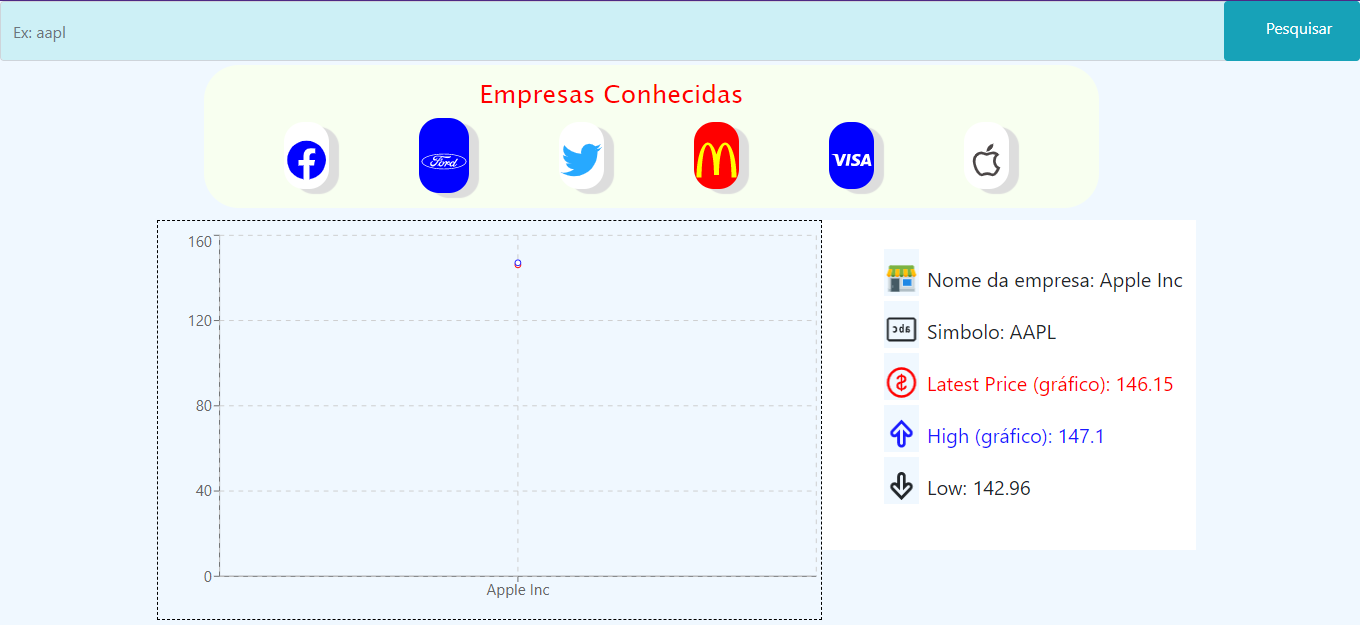
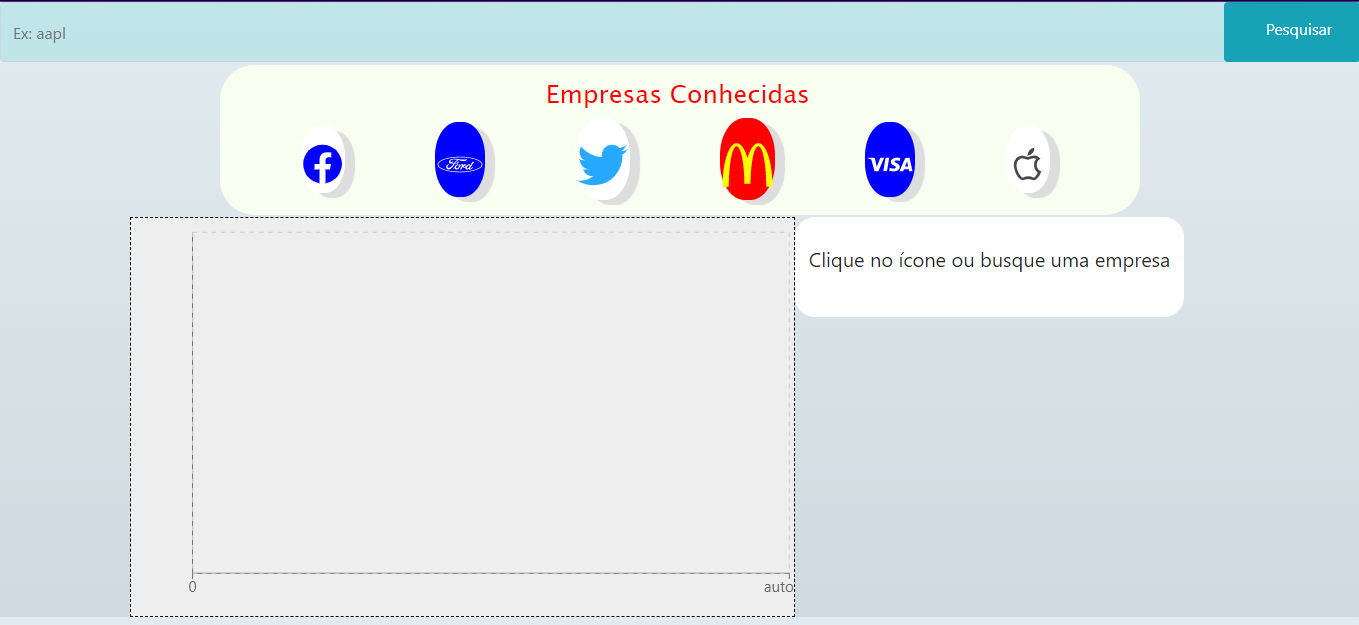
pagina funcional

diff --git a/app/src/componentes/NavbarAcoes.js b/app/src/componentes/NavbarAcoes.js
@@ -12,13 +12,13 @@ let choice = 0
 
 function NavbarAcoes({ changeCompany, changeSymbol, simbolo, informacoes}){
     const showExample = empresa => {
-        if(empresa === simbolo.simbolo || empresa === simbolo){
-            choice = 0
+        if(empresa === simbolo.simbolo || empresa === simbolo){     //if para verificar se vai concatenar ou                                                   
+            choice = 0                                              //excluir o atual array de informacao
         }else{
             choice = 1
-            clearInterval(intervalo)
-            changeSymbol(empresa)
-            changeCompany(
+            clearInterval(intervalo)                                // pararando a setInterval do dashboard
+            changeSymbol(empresa)                                   //trocando o simbolo no reducer e att pag
+            changeCompany(                                          //renderizando a nova empresa na tela
                 `https://cloud.iexapis.com/v1/stock/${empresa}/quote/?token=pk_c778b6dbd2154d6fa15043568d469931`,
                 choice
             )            
@@ -26,30 +26,31 @@ function NavbarAcoes({ changeCompany, changeSymbol, simbolo, informacoes}){
     }
 
     return(
-        <nav className='container-exemplo'>
-            <h5 className='info-exemplo'>Empresas Conhecidas</h5> 
-            <div className='div-exemplo'>
-                <p className='icone-exemplo face' onClick={()=>showExample('fb')}>
-                    <FaFacebook className='icon-ex' />
-                </p>
-                <p className='icone-exemplo ford' onClick={()=>showExample('f')}>
-                    <SiFord className='icon-ex' />
-                </p>
-                <p className='icone-exemplo twitter' onClick={()=>showExample('twtr')}>
-                    <FaTwitter className='icon-ex' />
-                </p>
-                <p className='icone-exemplo mcdonald' onClick={()=>showExample('mcd')}>
-                    <SiMcdonalds className='icon-ex' />
-                </p>
-                <p className='icone-exemplo visa' onClick={()=>showExample('v')}>
-                    <SiVisa className='icon-ex' />
-                </p>
-                <p className='icone-exemplo apple' onClick={()=>showExample('aapl')}>
-                    <AiOutlineApple className='icon-ex' />
-                </p> 
-            </div>
-            
-        </nav>
+        <div className='container-exemplo-full'>
+            <nav className='container-exemplo'>
+                <h5 className='info-h5'>Empresas Conhecidas</h5> 
+                <div className='div-exemplo'>
+                    <p className='icone-exemplo face' onClick={()=>showExample('fb')}>
+                        <FaFacebook className='icon-ex' />
+                    </p>
+                    <p className='icone-exemplo ford' onClick={()=>showExample('f')}>
+                        <SiFord className='icon-ex' />
+                    </p>
+                    <p className='icone-exemplo twitter' onClick={()=>showExample('twtr')}>
+                        <FaTwitter className='icon-ex' />
+                    </p>
+                    <p className='icone-exemplo mcdonald' onClick={()=>showExample('mcd')}>
+                        <SiMcdonalds className='icon-ex' />
+                    </p>
+                    <p className='icone-exemplo visa' onClick={()=>showExample('v')}>
+                        <SiVisa className='icon-ex' />
+                    </p>
+                    <p className='icone-exemplo apple' onClick={()=>showExample('aapl')}>
+                        <AiOutlineApple className='icon-ex' />
+                    </p> 
+                </div>        
+            </nav>
+        </div>
     )
 }
 

diff --git a/app/src/componentes/InfoDashboard.js b/app/src/componentes/InfoDashboard.js
@@ -8,35 +8,37 @@ import { TiArrowDownOutline, TiArrowUpOutline } from 'react-icons/ti'
 
 function InfoDashboard({ informacoes }){
     // imprimindo as informacoes da empresa consultada
-    console.log(informacoes[0])
+    const [data, setData] = React.useState(null)
+    if(informacoes && informacoes[0] !== data)
+        setData(informacoes[0])                     //informacoes que serao usadas na descricao
+
     return (
         <div className='info-company'>
-            {informacoes ?
+            {data ?
                 <ul className='lista-informacao'>
                     <li>
                         <p className='icone-grafico'><FcShop className='animar' /></p>
-                        Nome da empresa: {informacoes[0].companyName}
+                        Nome da empresa: <strong>{data.informacoes.companyName}</strong>
                     </li>
                     <li>
                         <p className='icone-grafico'><VscSymbolString className='animar' /></p>
-                        Simbolo: {informacoes.symbol}
+                        Simbolo: <strong>{data.informacoes.symbol}</strong>
                     </li>
                     <li className='latest-price'>
                         <p className='icone-grafico'><AiOutlineDollar className='animar' /></p>
-                        Latest Price  (gráfico): {informacoes.latestPrice}
+                        Latest Price  (gráfico): <strong>{data.informacoes.latestPrice}</strong>
                     </li>
                     <li className='high'>
                         <p className='icone-grafico'><TiArrowUpOutline className='animar' /></p>
-                        High  (gráfico): {informacoes.high}
+                        High  (gráfico): <strong>{data.informacoes.high}</strong>
                     </li>
                     <li>
                         <p className='icone-grafico'><TiArrowDownOutline className='animar' /></p>
-                        Low: {informacoes.low}
+                        Low: <strong>{data.informacoes.low}</strong>
                     </li>
                 </ul>
             :
-                < >
-                </>
+                <p> Clique no ícone ou busque uma empresa </p>
             } 
         </div> 
 

diff --git a/app/public/style.css b/app/public/style.css
@@ -1,5 +1,6 @@
 body{
-    background-color: aliceblue;
+    background-image: linear-gradient(to top, #cfd9df 0%, #e2ebf0 100%);
+    overflow: hidden;
 }
 
 .ipt-search {
@@ -8,6 +9,10 @@ body{
     height: 60px;
     background-color: #2acece2d;
     color: black;
+}
+
+.form-search {
+    margin-bottom: 3px;
 }
 
 .btn-search {
@@ -26,7 +31,7 @@ body{
 }
 
 .recharts-wrapper{
-    margin: auto auto auto 9%;
+    margin: auto auto auto 7%;
     display: flex;
     float: left;
 }
@@ -34,7 +39,7 @@ body{
 .recharts-surface {
     border: 1px dashed black;
     margin-left: 5%;
-    
+    background-color: #eee;
 }
 
 .info-company {
@@ -42,6 +47,7 @@ body{
     float: left;
     padding: 2% 1%;
     font-size: 20px;
+    border-radius: 20px;
 }
 
 .lista-informacao {
@@ -61,16 +67,20 @@ body{
     margin: auto 8px;
     background-color: aliceblue;
     font-size: 35px;
-    transform: rotateX(80deg);
+}
+
+.container-exemplo-full {
+    display: flex;
+    justify-content: center;
 }
 
 .container-exemplo {
     background-color: #f8fff0;
     padding: 15px 80px 15px 0;
-    margin-left: 15%;
     display: inline-block;
-    transform: translateY(-12px);
     border-radius: 35px;
+    justify-content: center;
+    margin-bottom: 2px;
 }
 
 .div-exemplo {
@@ -78,12 +88,13 @@ body{
     justify-content: center;
 }
 
-.info-exemplo {
+.info-h5 {
     display: block;
     text-align: center;
     font-family:'Lucida Sans', 'Lucida Sans Regular', 'Lucida Grande', 'Lucida Sans Unicode', Geneva, Verdana, sans-serif;
     color: rgb(255, 0, 0);
     font-size: 25px;
+    padding-left: 9%;
 }
 
 .icone-exemplo {
@@ -91,7 +102,7 @@ body{
     font-size: 45px;
     display: inline;
     margin-right: 10px;
-    border-radius: 20px;
+    border-radius: 45%;
     box-shadow: #ddd 10px 5px 1px;
 }
 
@@ -109,16 +120,19 @@ body{
 .twitter {
     color: rgba(0, 153, 255, 0.849);;
     background-color: #fff;
+    font-size: 55px;
 }
 
 .mcdonald {
     color: yellow;
     background-color: #f00;
+    font-size: 55px;
 }
 
 .visa {
     color: #fff;
     background-color: blue;
+    font-size: 50px;
 }
 
 .apple {

diff --git a/app/src/componentes/HeaderSearch.js b/app/src/componentes/HeaderSearch.js
@@ -10,7 +10,7 @@ let choice = 0
 const HeaderSearch = ({simbolo, changeCompany, changeSymbol}) => {
     
     //capturando o simbolo da empresa com um hook
-    const [ symbol, setSymbol ] = React.useState({symbol: ''}) // criando o hook
+    const [ symbol, setSymbol ] = React.useState({symbol: ''})      // criando o hook
 
     function GetInputValue(e){
         setSymbol({symbol: e.target.value})                         // capturando a informacao
@@ -19,17 +19,16 @@ const HeaderSearch = ({simbolo, changeCompany, changeSymbol}) => {
     function SetCompanyInformation(e){
         e.preventDefault()                                          // parando o refresh da pagina e chamando a funcao
         if(symbol.symbol === simbolo){                              // que troca as informações da empresa
-            choice = 0
-        }else{
+            choice = 0                                              //if para verificar se vai concatenar ou
+        }else{                                                      //excluir o atual array de informacao
             choice = 1
-            clearInterval(intervalo)
-            changeSymbol(symbol.symbol)                              
-            changeCompany(
+            clearInterval(intervalo)                                // pararando a setInterval do dashboard
+            changeSymbol(symbol.symbol)                             //trocando o simbolo no reducer e att pag                              
+            changeCompany(                                          //renderizando a nova empresa na tela
                 `https://cloud.iexapis.com/v1/stock/${symbol.symbol}/quote/?token=pk_c778b6dbd2154d6fa15043568d469931`,
                 choice
             )
         }
-        
     }
 
     return (

diff --git a/app/src/componentes/DashBoardAcoes.js b/app/src/componentes/DashBoardAcoes.js
@@ -6,14 +6,16 @@ import { changeCompany } from './../store/actions/TrocaEmpresa'
 
 import InfoDashboard from './InfoDashboard'
 
-export let intervalo = null
+export let intervalo = null                             // var p/ receber o setInterval e para-lo caso necessario
 
 function DashBoardAcoes({ informacoes, changeCompany }){
 
-    React.useEffect(()=> {
+    React.useEffect(()=> {                              // setInterval para deixar o dashboard interativo
         intervalo = setInterval(()=>{
             if(informacoes.simbolo.simbolo)
-                changeCompany(`https://cloud.iexapis.com/v1/stock/${informacoes.simbolo.simbolo}/quote/?token=pk_c778b6dbd2154d6fa15043568d469931`)
+                changeCompany(
+                    `https://cloud.iexapis.com/v1/stock/${informacoes.simbolo.simbolo}/quote/?token=pk_c778b6dbd2154d6fa15043568d469931`
+                )
         }, 7000)
     }, [informacoes.simbolo.simbolo, changeCompany])
     
